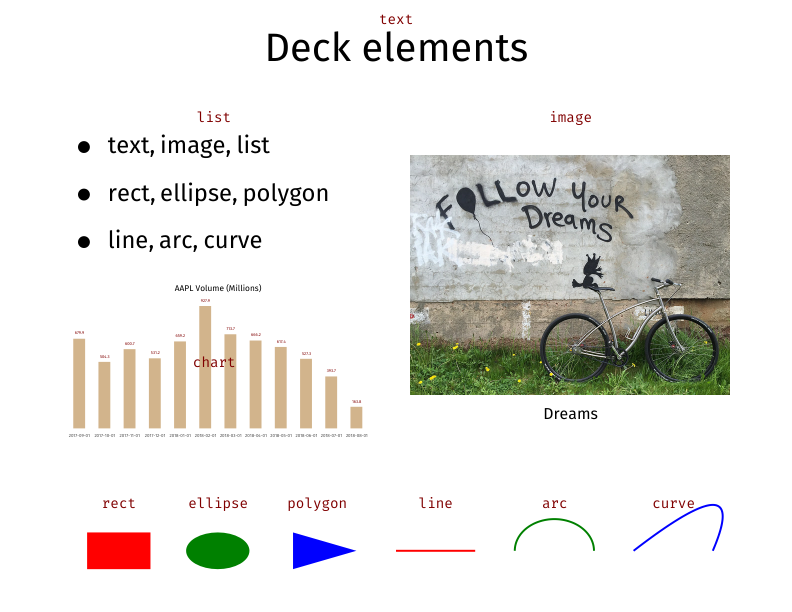
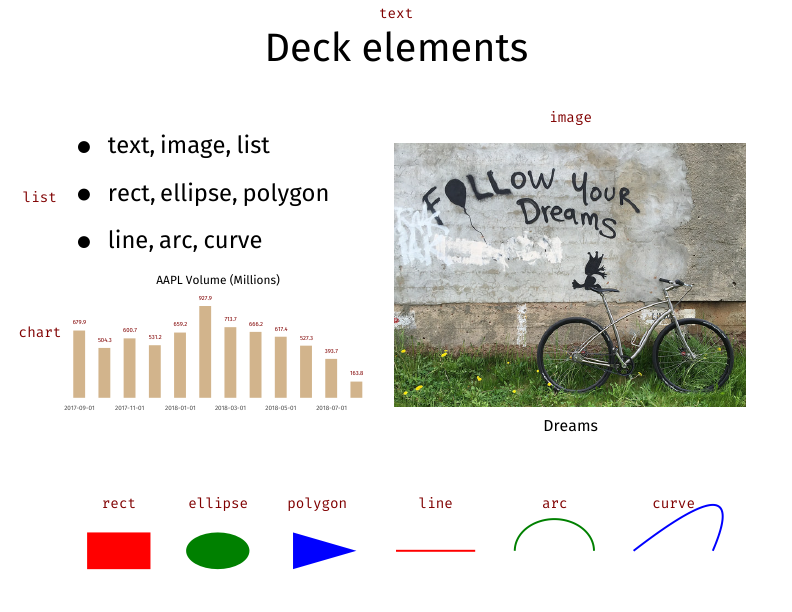
decksh: add substution for charts

diff --git a/cmd/decksh/decksh.go b/cmd/decksh/decksh.go
@@ -395,6 +395,14 @@ func curve(w io.Writer, s []string, linenumber int) error {
 
 // chart runs the chart command
 func chart(w io.Writer, s string, linenumber int) error {
+	args := strings.Fields(s)
+	for i := 1; i < len(args); i++ {
+		args[i] = eval(args[i])
+	}
+	s = args[0]
+	for i := 1; i < len(args); i++ {
+		s = s + " " + args[i]
+	}
 	out, err := exec.Command(shell, shellflag, s).Output()
 	if err != nil {
 		return err

diff --git a/cmd/decksh/README.md b/cmd/decksh/README.md
@@ -24,12 +24,13 @@ This deck script:
 		notefont="mono"
 		iw=640
 		ih=480
+		imscale=55
 		c1="red"
 		c2="green"
 		c3="blue"
 		slide begin "white" "black"
 			ctext "Deck elements" 50 90 5
-			cimage "follow.jpg" "Dreams" 72 55 iw ih 50 "https://budnitzbicycles.com"
+			cimage "follow.jpg" "Dreams" 72 55 iw ih imscale "https://budnitzbicycles.com"
 
 			// List
 			blist 10 75 3
@@ -45,21 +46,27 @@ This deck script:
 			ellipse 27.5 gy 8 6            c2
 			polygon "37 37 45" "7 13 10"   c3
 			line    50 gy 60 gy 0.25       c1
-			arc     70 gy 10 8 0 180 0.25  c2
+			arc	70 gy 10 8 0 180 0.25  c2
 			curve   80 gy 95 25 90 gy 0.25 c3
 
 			// Annotations
-			ctext "text"	50 96 notesize notefont notecolor
+			ctext "text"	50 97 notesize notefont notecolor
 			ctext "image"	72 80 notesize notefont notecolor
-			ctext "list"	27 80 notesize notefont notecolor
-			ctext "chart"	27 40 notesize notefont notecolor
+			ctext "list"	5 67 notesize notefont notecolor
+			ctext "chart"	5 45 notesize notefont notecolor
 			ctext "rect"	15 notey notesize notefont notecolor
 			ctext "ellipse"	27.5 notey notesize notefont notecolor
 			ctext "polygon"	40 notey notesize notefont notecolor
 			ctext "line"	55 notey notesize notefont notecolor
-			ctext "arc"	70 notey notesize notefont notecolor
+			ctext "arc"		70 notey notesize notefont notecolor
 			ctext "curve"	85 notey notesize notefont notecolor
-			dchart -left=10 -right=45 -top=50 -bottom=30 -fulldeck=f -textsize=0.7 -color=tan  -barwidth=1.5 AAPL.d  
+
+			// Chart
+			chartleft=10
+			chartright=45
+			top=50
+			bottom=35
+			dchart -fulldeck=f  -left chartleft -right chartright -top top -bottom bottom -textsize 1 -color "tan" -xlabel=2  -barwidth 1.5 AAPL.d 
 		slide end
 	deck end
 
